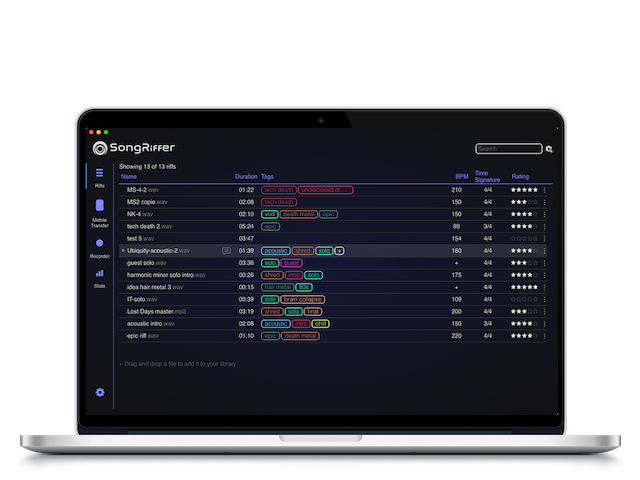
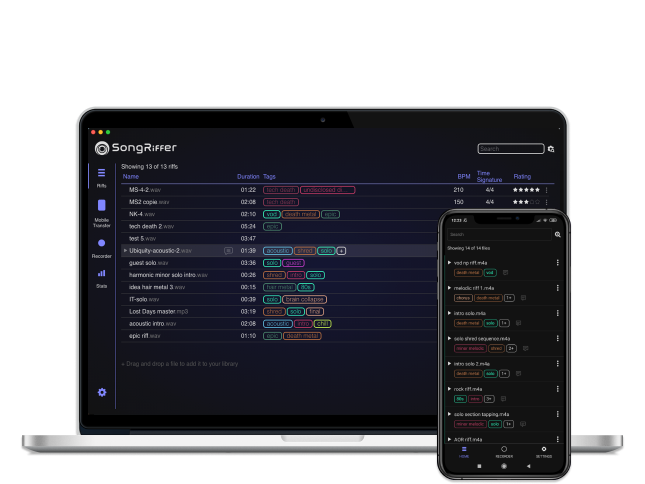
Create mobile page

Changed region(s): [[0.0312, 0.2188, 0.9688, 1.0], [0.1875, 0.75, 0.375, 0.7812], [0.125, 0.7812, 0.1875, 0.8438]]

diff --git a/build/main-a1a0c5ba3769c127d2b4.css b/build/main-a1a0c5ba3769c127d2b4.css
@@ -1,0 +1,1 @@
+*,:after,:before{box-sizing:border-box;-webkit-font-smoothing:antialiased}body,html{width:100%;height:100%;min-height:100%;padding:0;margin:0}body{color:#dedede;background:#2e2e2e;background:radial-gradient(#0e0f26,#121212);background-size:cover;font-size:20px;font-family:sans-serif}::selection{background:#7c5ab0}::-moz-selection{background:#7c5ab0}header{position:relative;min-height:500px;padding-bottom:120px;background:#8086ff;background:radial-gradient(ellipse at top,#8086ff,transparent),radial-gradient(ellipse at left,#963c57,transparent),radial-gradient(ellipse at right,#68459b,transparent);overflow:hidden}.header-light{min-height:130px;padding:0}header:before{height:400px;background:radial-gradient(ellipse at top,#8086ff,transparent),radial-gradient(ellipse at bottom,#963c57,transparent),radial-gradient(ellipse at right,#68459b,transparent);transform:rotate(35deg);top:-100px;right:-600px;opacity:.5}header:after,header:before{position:absolute;content:"";width:100%}header:after{height:200px;background:radial-gradient(ellipse at top,#8086ff,transparent),radial-gradient(ellipse at bottom,#963c57,transparent),radial-gradient(ellipse at left,#68459b,transparent);transform:rotate(-15deg);bottom:-194px;left:65px;opacity:.8}.header-content{position:relative;display:flex;flex-direction:row;justify-content:space-between;align-items:center;max-width:1200px;margin:0 auto;z-index:2}.description{width:45%}h1{position:absolute;left:-99999px}.logo{width:222px;max-width:100%;height:100px;margin-top:120px;transform:scale(1.5);transform-origin:left}.header-light .logo{height:60px;margin-top:50px}.def-logo{display:none}.def-logo path{fill:#dedede}.download-block{width:90%;display:flex;flex-direction:column;text-align:center;align-items:center}.subtitle{font-weight:700;letter-spacing:.5px}.subtitle,.subtitle-second{font-size:24px;text-align:left}.subtitle-second{margin-bottom:60px;font-weight:lighter}.download-title{margin-bottom:5px;font-size:22px}.version{margin-bottom:25px;font-size:13px}.download-links{display:grid;width:100%;grid-template-columns:calc(50% - 12px) calc(50% - 12px);grid-gap:24px;justify-items:center}.download-link{display:block;width:100%;padding:20px 0;text-decoration:none;border-radius:3px;border:1px solid #dedede;color:#dedede;background:#3b4096;transition:background .2s ease}.download-link:hover{background:#8086ff}.header-img-wrapper{display:flex;justify-content:center;align-items:center;width:55%;height:100%;z-index:2}.header-img{width:100%}.content{max-width:1100px;margin:0 auto}h2{margin:0;padding:45px 0;text-align:center;font-weight:lighter;letter-spacing:3px;font-size:45px}.feature-description-main{width:90%;margin:auto}section{display:flex;align-items:center;margin-bottom:35px}section>div{padding:50px}.feature-text{width:35%}.feature-video{width:65%}section video{width:100%;box-shadow:6px 6px 6px #000}section .title{font-size:25px;font-weight:lighter}.feature-description{font-size:18px;line-height:1.3}.features-list{display:flex;flex-direction:row;flex-wrap:wrap}.features-item{position:relative;width:50%;padding:10px 20px 10px 25px;font-size:17px}.features-item:before{content:"";position:absolute;width:8px;height:8px;background:#8086ff;border-radius:100%;top:50%;left:0;margin-top:-4px}.future{padding:20px 100px;font-size:18px;text-align:center;line-height:1.4}.content a{color:#dedede;text-decoration:underline}footer{width:100%;margin-top:120px;padding:50px 0;border-top:1px solid #dedede;background:radial-gradient(ellipse at top,#8086ff,transparent),radial-gradient(ellipse at left,#963c57,transparent),radial-gradient(ellipse at right,#68459b,transparent)}.footer{max-width:800px;display:flex;justify-content:space-between;align-items:top;font-weight:lighter;font-size:16px;line-height:2}.footer>div{width:50%}.footer a{color:#dedede;text-decoration:none}.footer a:hover{text-decoration:underline}.footer-logo{margin-top:20px}.footer-logo-mobile{display:none}@media (max-width:1250px){header{padding:100px 25px}.header-content{width:100%}}@media (max-width:900px){header{padding:50px 25px}.header-content{width:100%;flex-direction:column}.header-img-wrapper{width:90%}.description,.download-block,.download-link{width:100%}.feature-text{width:45%}.feature-video{width:55%}}@media (max-width:640px){section{display:flex;flex-direction:column;justify-content:center;align-items:center;margin-bottom:35px}.reverse{flex-direction:column-reverse}.feature-text{width:100%}.feature-video{width:90%;padding:25px;margin:0 auto}.features-item{width:100%;padding:10px 40px}.features-item:before{left:20px}.future{padding:20px 50px}.footer{width:90%;margin:0 auto;flex-direction:column}.footer-logo-desktop{display:none}.footer-logo-mobile{display:block;margin-left:15px}}.legal-content{padding:0 30px}.legal-content h2{padding:20px 0;font-size:30px}.legal-content p{margin:10px 0;font-size:16px}.faq-section{margin-bottom:30px}.faq-section h2{text-align:left;padding-bottom:10px;letter-spacing:normal}.transfer-root{height:100%;min-height:100%;display:flex;flex-direction:column}.transfer-wrapper{display:flex;flex:1;flex-direction:column;align-items:center;justify-content:center}.transfer-header{display:flex;align-items:center;flex-direction:column}.transfer-logo{width:auto;margin:40px 0}.transfer-auth{max-width:400px;padding:40px 0}.auth-title{margin-bottom:25px}.log-out-wrapper{display:flex;flex-direction:column;margin-top:150px;justify-content:center;align-items:center}.log-out-text{padding-bottom:15px;font-size:14px}.transfer-root input{display:inline-block;background:transparent;outline:none;color:#dedede;font-size:16px;width:100%;padding:5px 7px;margin-bottom:15px;border-radius:0;border:0;border-bottom:1px solid #dedede;transition:border .1s ease}.transfer-root input::placeholder{color:#dedede;opacity:.4}.transfer-root input:focus{border-bottom:1px solid #8086ff}.transfer-root .files-input{display:none}.transfer-root .files-input-label,.transfer-root button{outline:none;background:#3b4096;color:#dedede;font-family:inherit;font-size:16px;cursor:pointer;border-radius:3px;border:none;transition:background .1s ease}.transfer-root .files-input-label{display:block;width:100%;padding:15px 0;margin:40px 0;text-align:center;cursor:pointer}.transfer-root .secondary-button{border:1px solid #555;background:none}.transfer-auth button:hover,.transfer-root .files-input-label:hover,.transfer-root .secondary-button:hover{background:#a389c9}.form-type-switch{margin-top:40px;text-decoration:underline;font-size:14px;cursor:pointer}.auth-error{margin-bottom:15px;color:#963c57;font-size:14px}.transfer-file-wrapper{max-width:400px}.transfer-root .code-input-wrapper{display:flex;justify-content:center}.transfer-root .code-input-text{margin:40px 0}.transfer-root .code-input{max-width:100px;background:hsla(0,0%,100%,.2);border:none;text-align:center}.transfer-root .code-input:focus{border:none}.transfer-file{display:flex;justify-content:space-between;margin-top:10px;padding:10px 15px;background:hsla(0,0%,100%,.2);border-radius:3px}.transfer-file-transfered{color:#1f1f1f;background:#bbffc7}.transfer-file-transfering{color:#1f1f1f;background:#a9c1ff}.transfer-file-name{max-width:250px;margin-right:50px;white-space:nowrap;text-overflow:ellipsis;overflow:hidden}.share-page{display:flex;flex-direction:column;height:100%;min-height:100%}.share-root{min-height:500px}.share-root,.share-wrapper{display:flex;flex-direction:column;flex:1}.share-wrapper{min-height:60vh;padding-top:40px;align-items:center}.share-header{display:flex;flex-direction:row}.share-header>div{width:50%}.share-logo{height:50px;margin-right:50px;transform:scale(1)}.share-download-block{max-width:500px}.share-download-block .download-links{margin:20px 0}.share-download-block a{padding:10px 0}.share-separator{width:100%;height:1px;margin-bottom:40px;background:#dedede}.share-loader{margin:auto;background:none;display:block}.shared-file{width:100%;max-width:800px}.share-title{margin-bottom:40px}@media (max-width:640px){.share-header>div{width:100%}.share-logo{margin-right:0}.share-download-block{display:none}.shared-file{padding:0 25px}}.mobile-content p{font-size:16px}.form-link-wrapper{padding:25px 0;margin-top:25px;display:flex;flex-direction:row;justify-content:center;align-items:center}.form-link{display:block;padding:10px 15px;background:#3b4096;color:#dedede;font-size:16px;border-radius:3px;transition:background .1s ease;text-decoration:none!important}

diff --git a/_layouts/default.html b/_layouts/default.html
@@ -3,7 +3,7 @@
 <html>
 <head>
     <title>{{ page.title | default: 'SongRiffer' }}</title>
-    <meta name="description" content="Organize and browse all your ideas hassle-free. The only riff library app made for musicians, by musicians, 100% free. Download for Mac and Windows." />
+    <meta name="description" content="Keep track of all your musical ideas. Available for Mac, Windows, iOS and Android." />
     <meta charset="UTF-8" />
     <link rel="icon" type="image/png" href="favicon.png" />
     <meta name=viewport content="width=device-width,initial-scale=1">
@@ -11,18 +11,18 @@
     <meta name="google-site-verification" content="NtQTcrRTr-dxfiRPfAz8gPmGaxNsb8saFpQ8dv1lU7M" />
 
     <meta property="og:site_name" content="SongRiffer" />
-    <meta property="og:title" content="SongRiffer" />
+    <meta property="og:title" content="{{ page.title | default: 'SongRiffer' }}" />
     <meta property="og:type" content="website" />
-    <meta property="og:url" content="https://songriffer.com" />
+    <meta property="og:url" content="https://songriffer.com{{ page.permalink | default: '' }}" />
     <meta property="og:image" content="https://songriffer.com/assets/screenshot-header.png" />
     <meta property="og:image:width" content="1280" />
     <meta property="og:image:height" content="960" />
-    <meta property="og:description" content="Organize and browse all your ideas hassle-free. The only riff library app made for musicians, by musicians, 100% free. Download for Mac and Windows." />
+    <meta property="og:description" content="Keep track of all your musical ideas. Available for Mac, Windows, iOS and Android." />
 
     <meta name="twitter:card" content="summary_large_image" />
-    <meta name="twitter:site" content="https://songriffer.com" />
+    <meta name="twitter:site" content="https://songriffer.com{{ page.permalink | default: '' }}" />
     <meta name="twitter:title" content="SongRiffer" />
-    <meta name="twitter:description" content="Organize and browse all your ideas hassle-free. The only riff library app made for musicians, by musicians, 100% free. Download for Mac and Windows." />
+    <meta name="twitter:description" content="Keep track of all your musical ideas. Available for Mac, Windows, iOS and Android." />
     <meta name="twitter:image" content="https://songriffer.com/assets/screenshot-header.png" />
 
     <link rel="preload" href="assets/feature-1-0.mp4" as="video">

diff --git a/src/main.css b/src/main.css
@@ -42,6 +42,11 @@ header {
     overflow: hidden;
 }
 
+.header-light {
+    min-height: 130px;
+    padding: 0;
+}
+
 header:before {
     position: absolute;
     content: '';
@@ -97,6 +102,14 @@ h1 {
     margin-top: 120px;
     transform: scale(1.5);
     transform-origin: left;
+}
+
+.header-light .logo {
+    height: 60px;
+    margin-top: 50px;
+}
+
+.logo-link {
 }
 
 .def-logo {
@@ -422,6 +435,7 @@ footer {
 .faq-section h2 {
     text-align: left;
     padding-bottom: 10px;
+    letter-spacing: initial;
 }
 
 
@@ -693,4 +707,31 @@ footer {
     .shared-file {
         padding: 0 25px;
     }
+}
+
+/*****************************
+            Mobile
+******************************/
+.mobile-content p {
+    font-size: 16px;
+}
+
+.form-link-wrapper {
+    padding: 25px 0;
+    margin-top: 25px;
+    display: flex;
+    flex-direction: row;
+    justify-content: center;
+    align-items: center;
+}
+
+.form-link {
+    display: block;
+    padding: 10px 15px;
+    background: #3B4096;
+    color: #dedede;
+    font-size: 16px;
+    border-radius: 3px;
+    transition: background ease 0.1s;
+    text-decoration: none !important;
 }

diff --git a/mobile.html b/mobile.html
@@ -1,0 +1,21 @@
+---
+layout: default
+permalink: /mobile
+title: SongRiffer on iOS & Android
+---
+
+{% include header-light.html %}
+
+<div class="content mobile-content">
+    <h2>Capture your inspiration on the go</h2>
+
+    <p>SongRiffer is coming to your smartphone! The mobile app (soon available for iOS and Android) is the perfect companion for the desktop application.</p>
+
+    <p>Synchronize your ideas added from your Mac or Windows application, or record new ideas anytime with the built-in recorder. Browse and organize your riffs and work in progress anywhere, any time.</p>
+    <p>The mobile app is currently in close beta, if you want to give it a shot, please fill in this form and we'll get back to you really soon:</p>
+    <div class="form-link-wrapper">
+        <a class="form-link" href="https://forms.gle/aJJLzAi3vQYnQmVn8">Request beta access</a>
+    </div>
+</div>
+
+{% include footer.html %}

diff --git a/help.html b/help.html
@@ -4,9 +4,10 @@ permalink: /help
 title: Help & FAQ | Songriffer
 ---
 
-{% include header.html %}
+{% include header-light.html %}
 
 <div class="content legal-content">
+    <h2>Help & FAQ</h2>
     <div class="faq-section">
         <h2>Why do I need an account to use SongRiffer?</h2>
         <p>In order to use the SongRiffer app, you will need to sign up for an account. This is needed to synchronize your data so you can access them from all your devices (computer and smartphone).</p>

diff --git a/_includes/header-light.html b/_includes/header-light.html
@@ -1,0 +1,10 @@
+<header class="header-light">
+    <div class="header-content">
+        <h1>SongRiffer</h1>
+        <a href="/" class="logo-link">
+            <svg xmlns="http://www.w3.org/2000/svg" xmlns:xlink="http://www.w3.org/1999/xlink" class="logo">
+              <use xlink:href="#e"/>
+            </svg>
+        </a>
+    </div>
+</header>

diff --git a/_includes/footer.html b/_includes/footer.html
@@ -2,7 +2,7 @@
     <div class="content footer">
         <div>
             <div>
-                <a href="/transfer">Mobile Transfer</a>
+                <a href="/mobile">iOS & Android application</a>
             </div>
             <div>
                 <a href="/help">Help & FAQ</a>

diff --git a/term-and-conditions.html b/term-and-conditions.html
@@ -4,7 +4,7 @@ permalink: /terms-and-conditions
 title: Terms And Conditions | Songriffer
 ---
 
-{% include header.html %}
+{% include header-light.html %}
 
 <div class="content legal-content">
     <h2>Terms & Conditions</h2>

diff --git a/privacy.html b/privacy.html
@@ -4,7 +4,7 @@ permalink: /privacy
 title: Privacy Policy | Songriffer
 ---
 
-{% include header.html %}
+{% include header-light.html %}
 
 <div class="content legal-content">
     <h2>Privacy Policy</h2>
